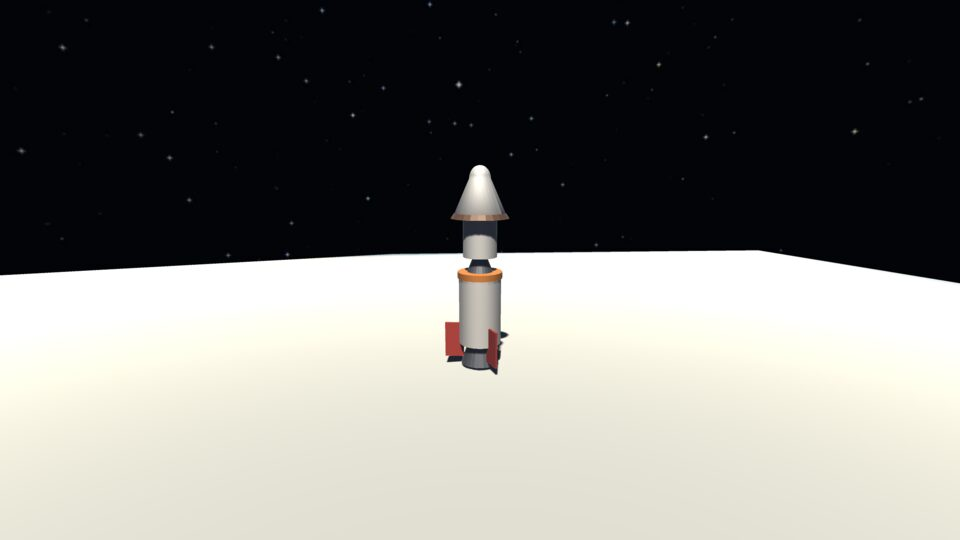
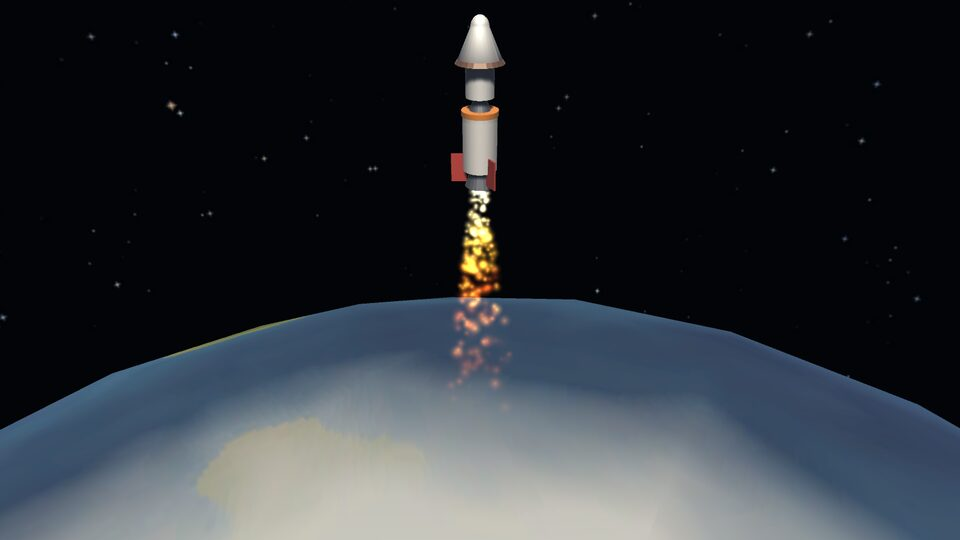
RUNS: swap run-3 gallery to the Fable in-flight ascent shot

diff --git a/RUNS.md b/RUNS.md
@@ -9,8 +9,7 @@ Every build attempt lives on its own `run/<model>-<date>` branch, so runs can be
 compared against each other and against the prompts on `main`.
 
 ## Gallery
-A shot from each run (all three build the same spec, so they look alike). Runs 1-2
-are in flight; run 3 is on the pad (Fable's in-flight captures garbled - see below).
+An in-flight shot from each run (all three build the same spec, so they look alike).
 
 <table>
 <tr>